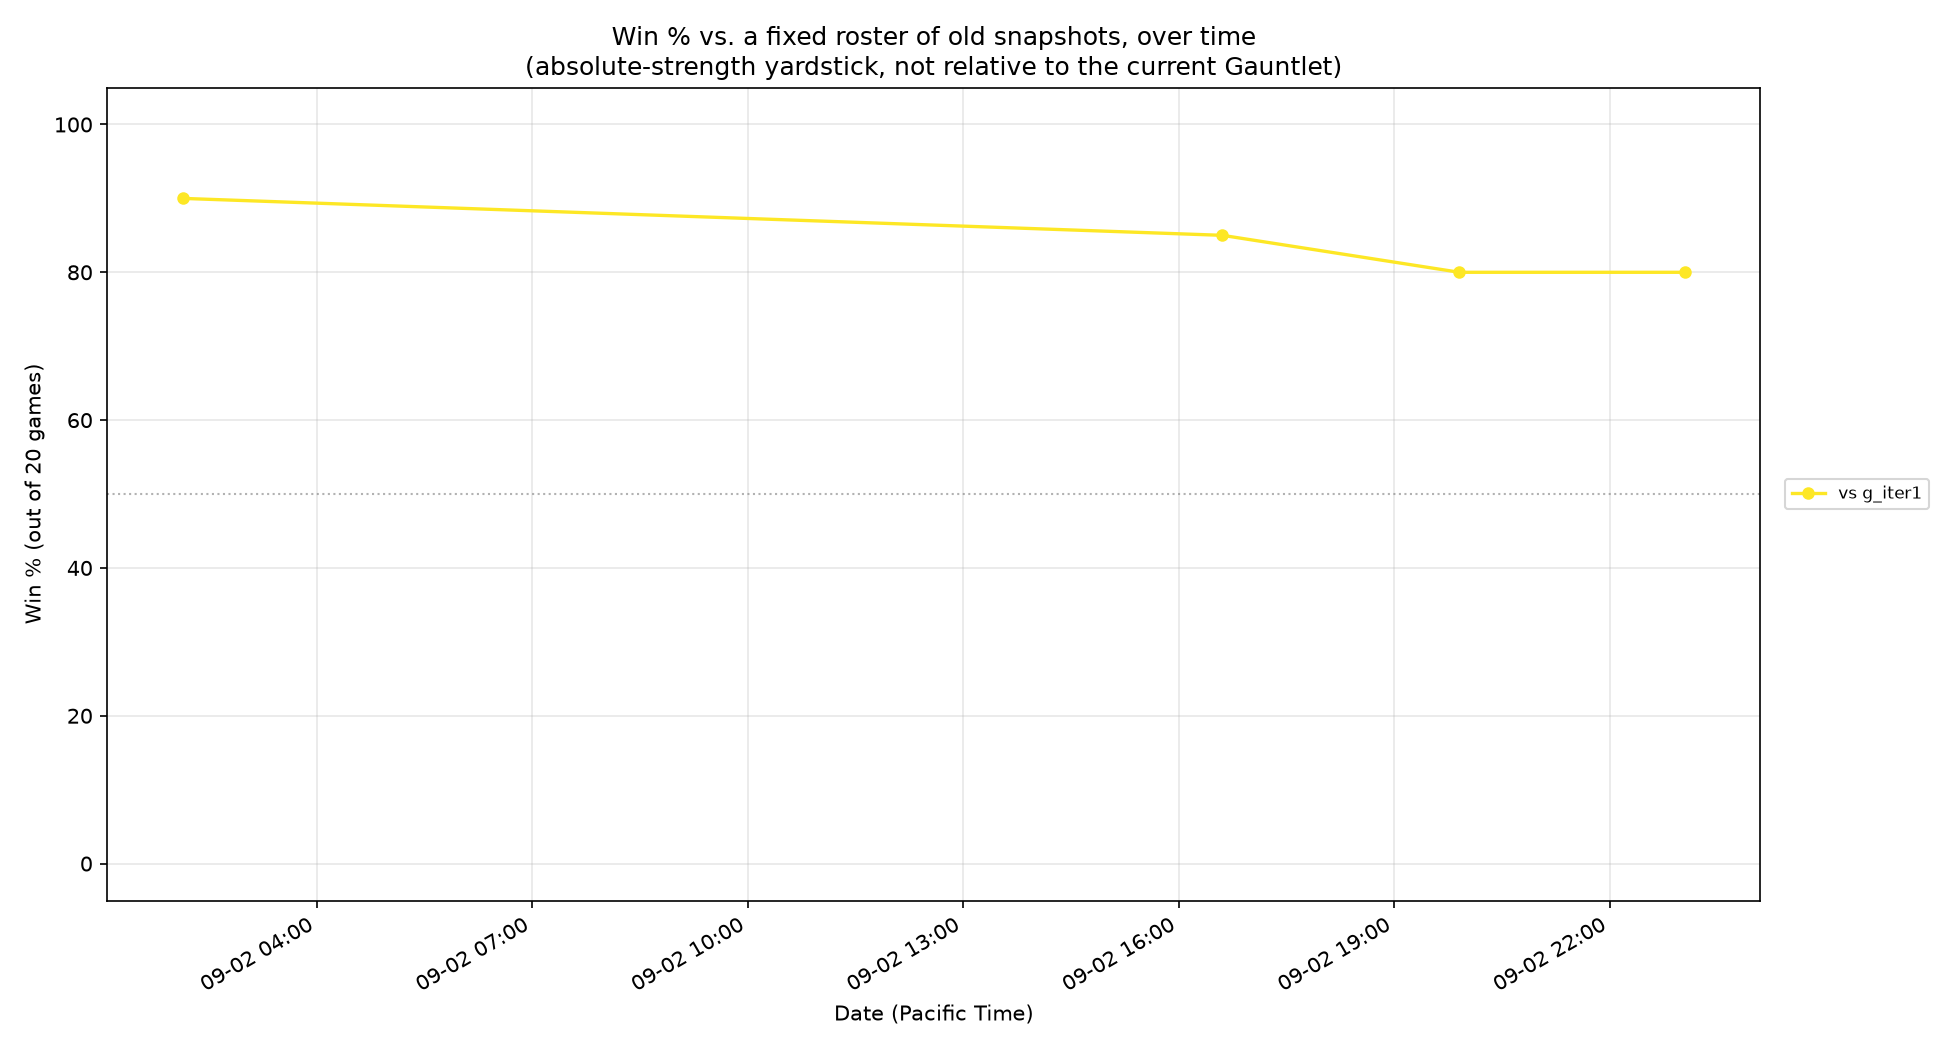
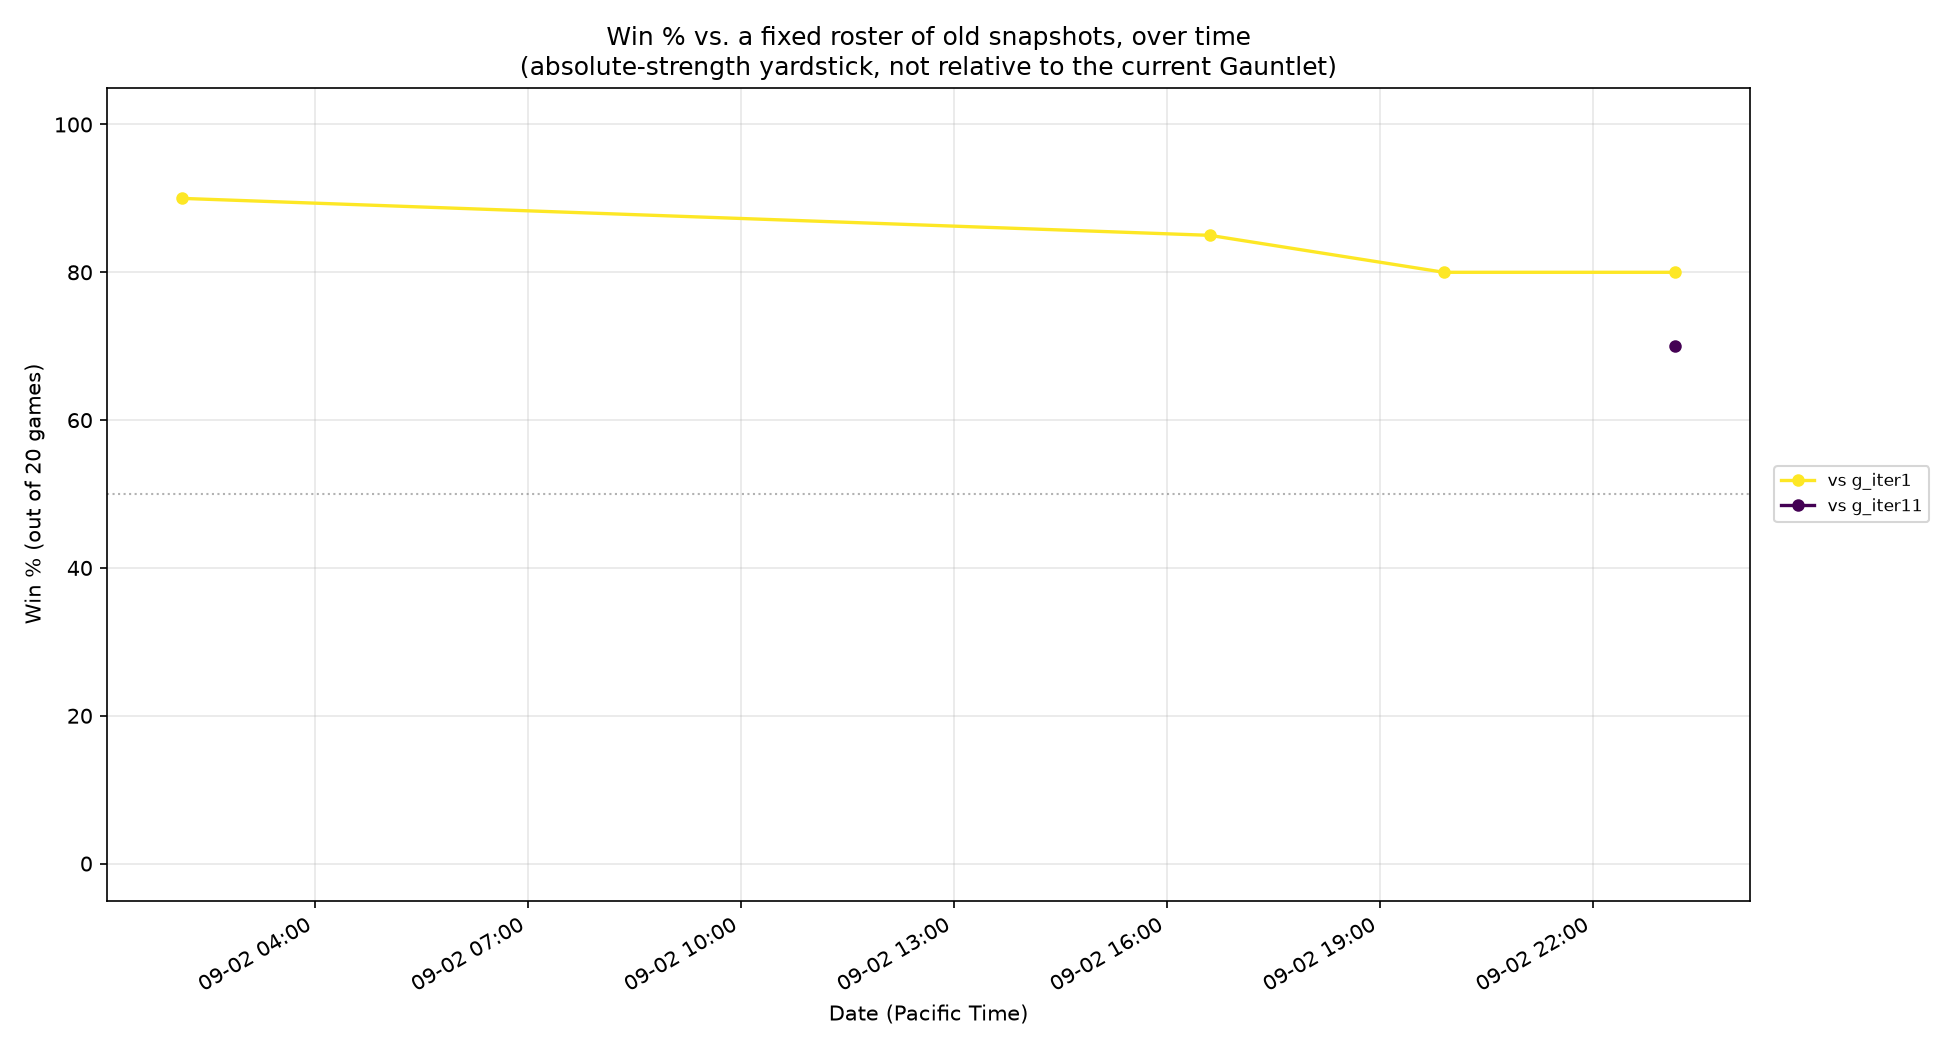
Fix vs-old-bots roster (every 10th snapshot, not just g_iter1) + log Iteration 36
User caught that g_iter12 never played g_iter11: BC22's tool documents
the roster as g_iter1/g_iter11/g_iter21/..., but the port hardcoded
OPPONENTS="g_iter1" (the only old-enough snapshot at the time) and was
never revisited once g_iter11 existed. Fixed by deriving the roster
automatically (--roster flag) so it can't go stale again, and backfilled
g_iter12 against the full roster.

The recovered data point matters: g_iter12 beats g_iter11 head-to-head
14/20 (70%), which is exactly the corroboration Iteration 35's
mechanistic accept was missing (it tied 75.0% on the peer Gauntlet).

Also logs Iteration 36 (sticky cheese target + bug-nav for collection)
as rejected -- 70.0%, down from 75.0%. Unlike the fixed King target,
cheese tiles are contested and deplete, so commitment wastes more than
the ping-pong it prevents; would need per-tile claim deconfliction.

Claude-Session: https://claude.ai/code/session_01Sgao6EtbbgQ6mM5ZhH5FGP

diff --git a/tools/track_vs_old_bots.py b/tools/track_vs_old_bots.py
@@ -5,8 +5,17 @@ completed Gauntlet run's results.csv. See tools/plot_vs_old_bots.py for
 the full picture (what this data is for, how to regenerate the chart).
 Ported from battlecode22-vibe's tools/track_vs_old_bots.py.
 
-Usage:
-    OPPONENTS="g_iter1" MAPSET=loop tools/gauntlet.sh
+The roster is **every 10th accepted snapshot** (g_iter1, g_iter11,
+g_iter21, ...), matching battlecode22-vibe's policy -- a fixed set of
+historical reference points that grows as the project does, so the chart
+shows progress against genuinely old bots rather than only the single
+oldest one. Add the next one each time a g_iterN with N ending in 1
+(11, 21, 31, ...) is accepted; never replace earlier entries.
+
+Usage (keep this list current -- see roster_opponents() below, which
+derives it automatically):
+    OPPONENTS="$(tools/.venv/bin/python3 tools/track_vs_old_bots.py --roster)" \\
+        tools/gauntlet.sh
     tools/.venv/bin/python3 tools/track_vs_old_bots.py gauntlet/<run-id>/
 
 current_snapshot is auto-detected as the highest-numbered src/g_iterN/
@@ -31,6 +40,24 @@ def current_snapshot():
     return max(names, key=lambda n: int(n[len("g_iter"):]))
 
 
+def roster_opponents():
+    """Every 10th accepted snapshot (g_iter1, g_iter11, g_iter21, ...) that
+    actually exists, excluding the current one (a bot doesn't play itself).
+
+    Derived rather than hardcoded specifically so this can't silently go
+    stale: the original port hardcoded "g_iter1" as the usage example
+    because that was the only snapshot old enough at the time, and then
+    wasn't revisited when g_iter11 was accepted -- so the chart kept
+    tracking a single reference point long after a second one existed.
+    """
+    existing = {p.name for p in (REPO_ROOT / "src").iterdir()
+                if p.is_dir() and re.fullmatch(r"g_iter\d+", p.name)}
+    current = current_snapshot()
+    newest = int(current[len("g_iter"):])
+    return [n for n in (f"g_iter{i}" for i in range(1, newest + 1, 10))
+            if n in existing and n != current]
+
+
 def run_timestamp(rundir):
     m = re.search(r"(\d{8})-(\d{6})", rundir.name)
     dt = datetime.strptime(m.group(1) + m.group(2), "%Y%m%d%H%M%S").replace(tzinfo=timezone.utc)
@@ -38,6 +65,9 @@ def run_timestamp(rundir):
 
 
 def main():
+    if len(sys.argv) == 2 and sys.argv[1] == "--roster":
+        print(" ".join(roster_opponents()))
+        return
     if len(sys.argv) != 2:
         print(__doc__)
         sys.exit(1)

diff --git a/TRAINING_LOG.md b/TRAINING_LOG.md
@@ -2490,3 +2490,68 @@ tiles deplete, but a *sticky* target (commit to one cheese tile until
 reached or depleted, per BC22's `LEARNINGS.md` "a sticky/committed target
 beats recompute-nearest-every-round," one of that project's single
 largest wins) would make it a fixed target and unlock the same fix there.
+
+---
+
+## Iteration 36 attempt — sticky cheese target + bug-nav for collection; REJECTED
+
+Direct follow-on from Iteration 35's own "Next" note, combining two BC22
+lessons: `LEARNINGS.md`'s sticky-target pattern (a Miner recomputing
+"nearest lead beacon" every round ping-ponged between similar beacons,
+"wasting many rounds moving without ever mining" -- committing to one
+was worth 60.3%->69.7% there) and Iteration 35's finding that
+bug-navigation only works for *fixed* targets. `collectCheese()` had the
+identical recompute-every-turn structure, so making it sticky should fix
+the ping-pong *and* unlock pathfinding for collection.
+
+Implemented: remember the chosen cheese tile; keep it until picked up or
+sensed depleted; bound the commitment at 40 rounds so an unreachable
+tile can't recreate the old camping bug; `useBugNav=true` now that the
+target is fixed.
+
+**Smoke test** (`knifefight` vs. `pure_cooperator`, one of the two maps
+Iteration 35 regressed): flipped back to a win. **Full Gauntlet: 28/40
+(70.0%), down from 75.0%.** `pure_cooperator` 65% (unchanged),
+`immediate_defector` 85%->75%. New losses spread across `tiny` (both
+coop sides), `pipes`, `rift`, `knifefight` (both `immediate_defector`
+sides), `whereisthecheese` (both `immediate_defector` sides).
+
+**REJECT.** Reverted to `g_iter12`.
+
+**Diagnosis:** unlike delivery (one fixed King, always worth reaching),
+cheese tiles are contested and deplete -- several rats committing to the
+*same* tile, or holding a 40-round commitment to a tile another rat
+empties first, wastes more than the ping-pong it prevents. BC22's Miner
+case differs in a way that matters: lead beacons there were large and
+long-lived, so commitment paid off; cheese tiles here are small and
+frequently consumed mid-approach. A future attempt would need
+per-tile claim deconfliction (shared-array or ID-based partitioning) so
+rats commit to *different* tiles, not the same one -- untried.
+
+---
+
+## Infrastructure fix — vs-old-bots roster was tracking only g_iter1, not every 10th snapshot
+
+User caught this: "Why didn't g_iter12 play against g_iter11 in the
+old-bots graph? I thought we were playing against a gauntlet of every
+10th old bot." Correct -- BC22's `tools/track_vs_old_bots.py` documents
+the roster explicitly as `g_iter1 g_iter11 g_iter21 g_iter31 ...`. When
+ported, the usage example was hardcoded to `OPPONENTS="g_iter1"` because
+that was the only snapshot old enough at the time, and never revisited
+once `g_iter11` was accepted -- so the chart kept tracking a single
+reference point after a second one existed.
+
+Fixed properly rather than just re-running: added
+`tools/track_vs_old_bots.py --roster`, which *derives* the every-10th
+list from the snapshots that actually exist (excluding the current one),
+so it can't silently go stale again. Backfilled `g_iter12` against the
+full roster (dropping the incomplete single-opponent row first):
+**vs. `g_iter1` 16/20 (80%), vs. `g_iter11` 14/20 (70%)**.
+
+The new data point is independently informative: **`g_iter12` beats its
+immediate predecessor `g_iter11` head-to-head 70-30**, which is real
+corroboration for Iteration 35's mechanistic accept -- that change tied
+on the peer Gauntlet (75.0% both), so a direct head-to-head against the
+bot it replaced is exactly the evidence that was missing. Had the
+roster been correct at the time, this would have been available as
+accept evidence rather than found afterward.
